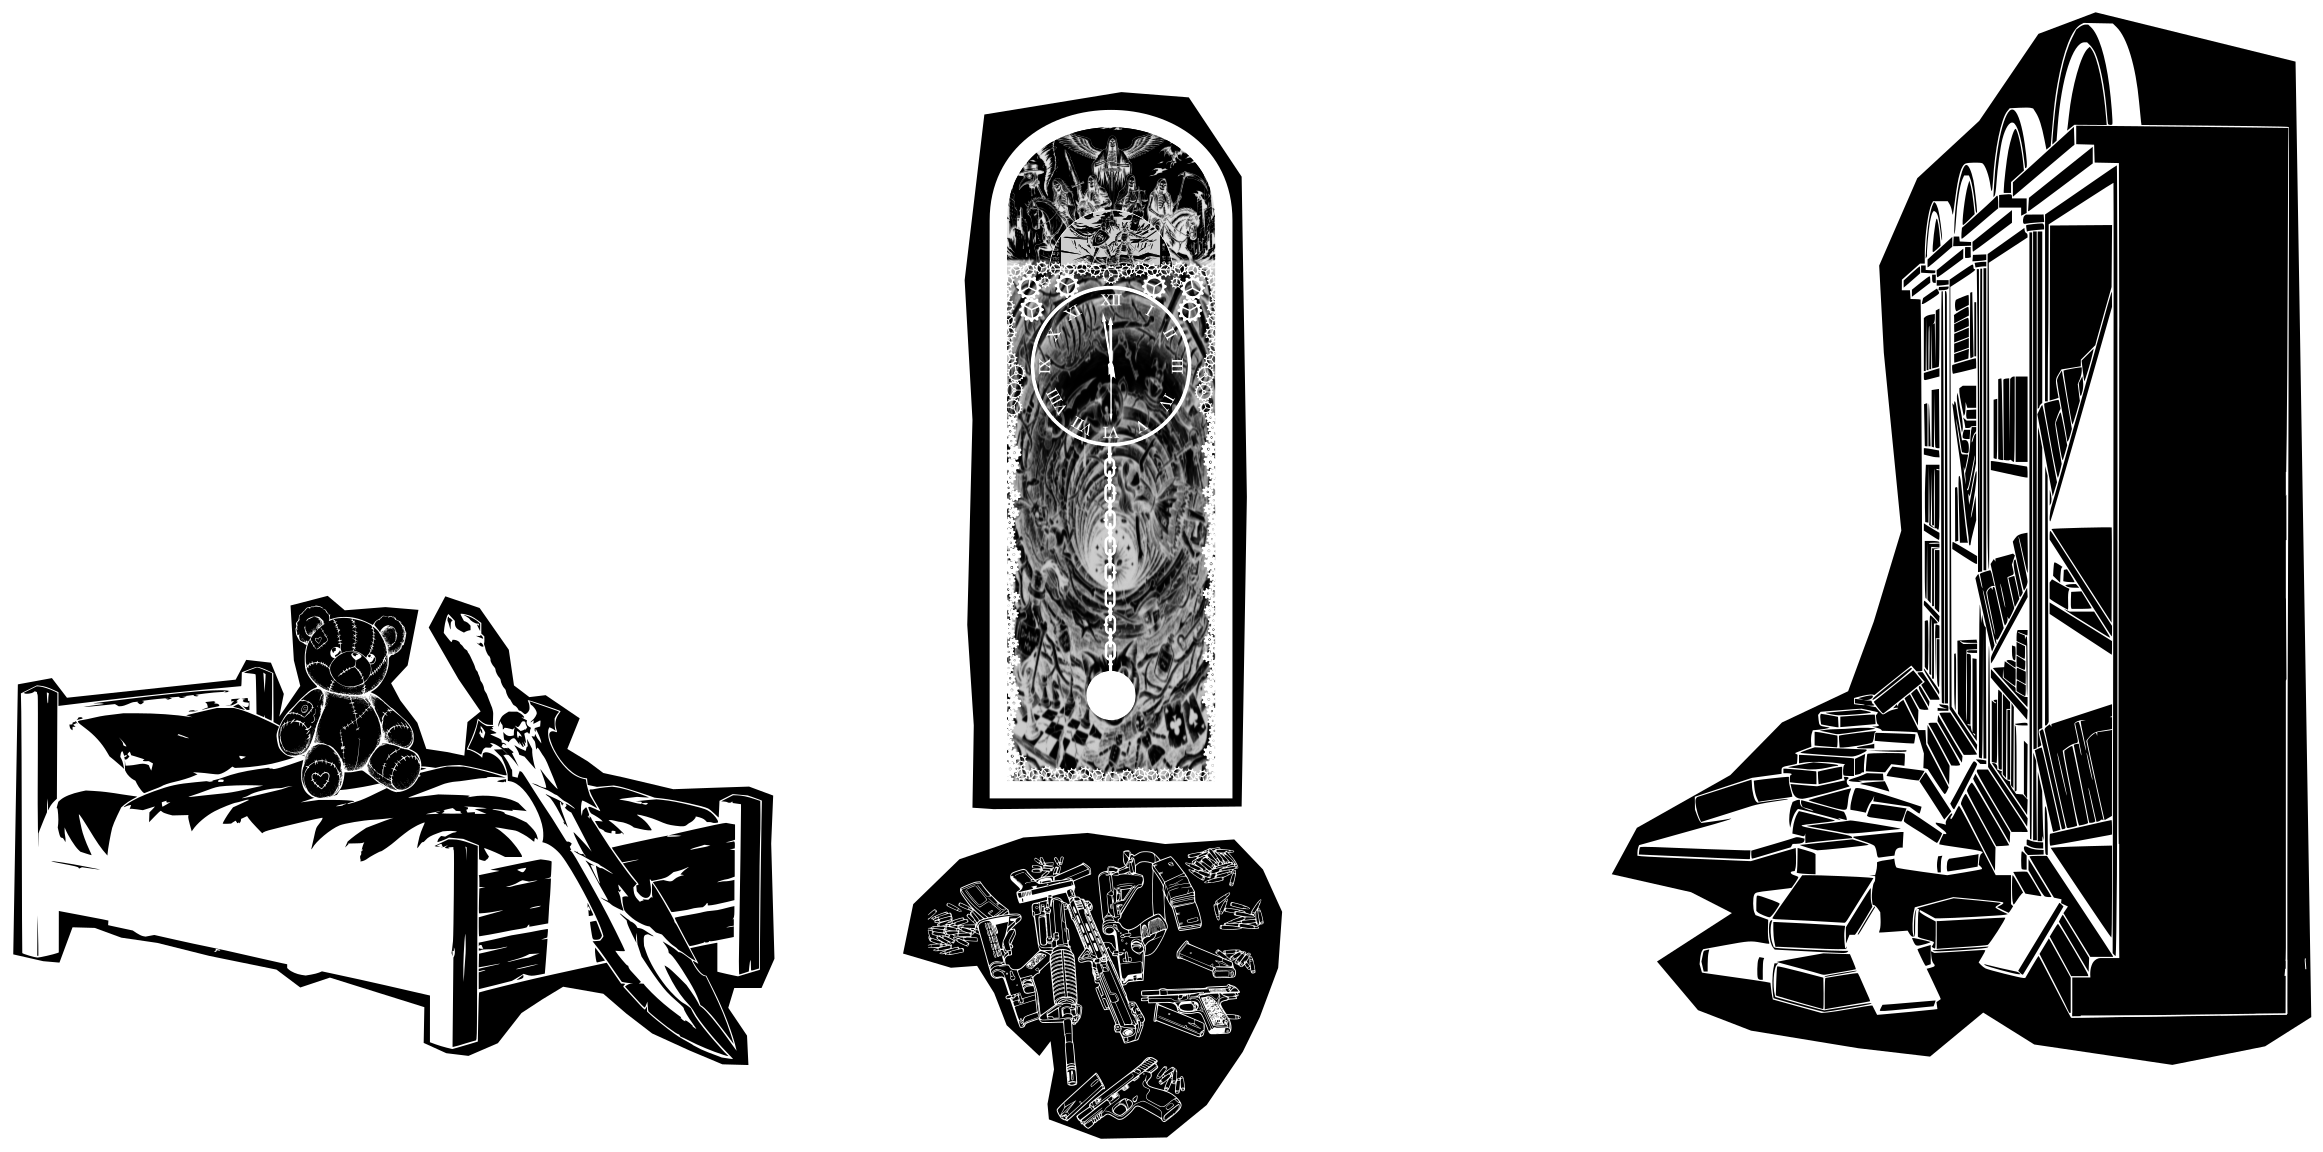
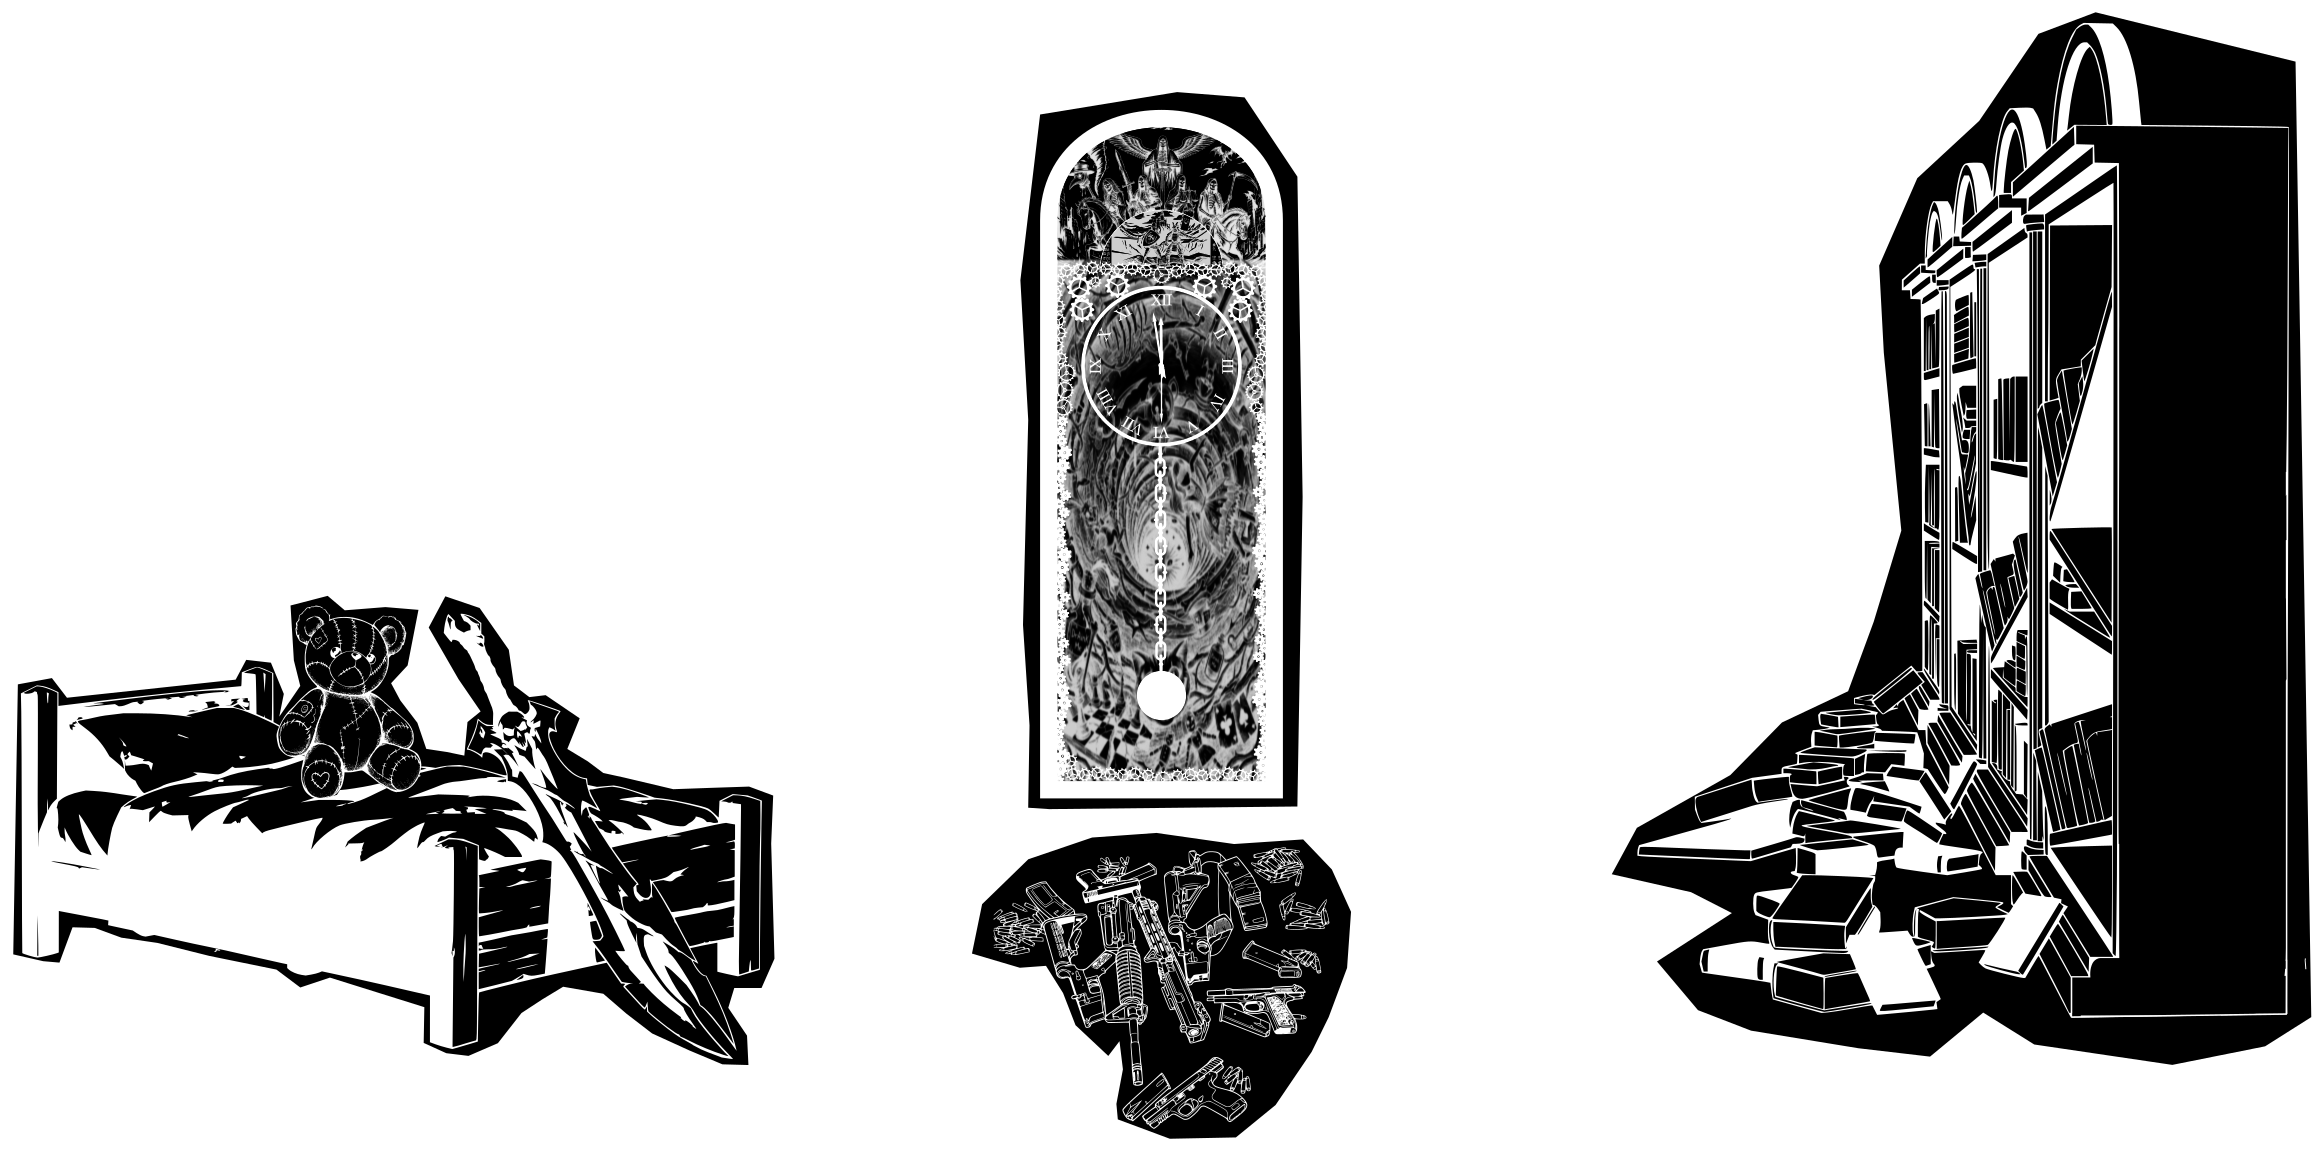
style(background): refine room background placement

Changed region(s): [[0.3719, 0.0625, 0.5889, 1.0]]

diff --git a/client/src/widgets/background/ui/Background.tsx b/client/src/widgets/background/ui/Background.tsx
@@ -14,7 +14,7 @@ export const Background = () => {
           src={room}
           alt="room"
           loading="lazy"
-          className="absolute inset-0 top-30 z-10 h-full w-full object-contain"
+          className="absolute inset-0 top-20 z-10 h-full w-full object-contain"
         />
       </div>
     </article>
